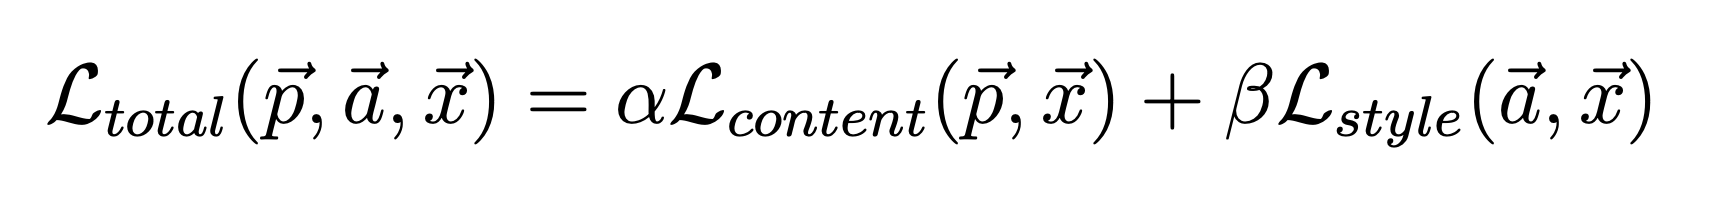
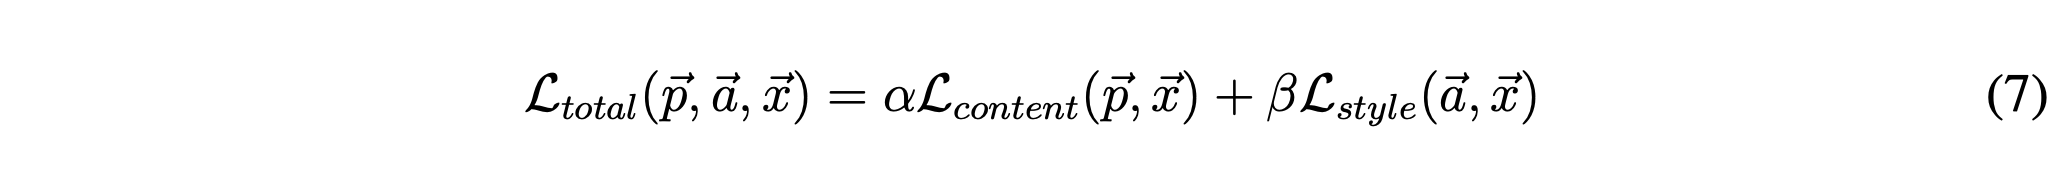
Finalise explanation for Style transfer post

Changed region(s): [[0.031, 0.3022, 1.0, 0.7143], [0.8668, 0.3022, 0.9597, 0.3846]]

diff --git a/_layouts/blog.html b/_layouts/blog.html
@@ -4,9 +4,6 @@ layout: default
 {%- assign _posts = site.posts | sort: 'date' | reverse -%}
 {%- include header.html scrolly_nav=_posts -%}
 <!-- Main -->
-<head>
-	<link rel="shortcut icon" type="image/x-icon" href="assets/favicon/favicon.ico">
-</head>>
 <div id="main">
 	{%- if page.content != "" -%}
 		{%- include section.html title=page.title photo=page.cover-photo photo-alt=page.cover-photo-alt auto-header=page.auto-header content=page.content -%}

diff --git a/_layouts/home.html b/_layouts/home.html
@@ -4,9 +4,6 @@ layout: default
 {%- assign _sections = site.sections | sort: 'order' -%}
 {%- include header.html scrolly_nav=_sections -%}
 <!-- Main -->
-<head>
-	<link rel="shortcut icon" type="image/x-icon" href="assets/favicon/favicon.ico">
-</head>>
 <div id="main">
 	{%- if page.content != "" -%}
 		{%- include section.html title=page.title photo=page.cover-photo photo-alt=page.cover-photo-alt auto-header=page.auto-header content=page.content -%}

diff --git a/_layouts/page.html b/_layouts/page.html
@@ -2,9 +2,6 @@
 layout: default
 ---
 {%- include header.html -%}
-<head>
-	<link rel="shortcut icon" type="image/x-icon" href="assets/favicon/favicon.ico">
-</head>>
 <!-- Main -->
 <div id="main">
 	<!-- Page -->

diff --git a/_layouts/post.html b/_layouts/post.html
@@ -2,9 +2,6 @@
 layout: default
 ---
 {%- include header.html -%}
-<head>
-	<link rel="shortcut icon" type="image/x-icon" href="assets/favicon/favicon.ico">
-</head>>
 <!-- Main -->
 <div id="main">
 	<!-- Post -->

diff --git a/_posts/2020-08-11-on-style-transfer.md b/_posts/2020-08-11-on-style-transfer.md
@@ -96,9 +96,8 @@ What is now left is understanding $$\mathcal{L}_{content}$$ and $$\mathcal{L}_{s
 ### $\mathcal{L}_{content}$
 Here is where everything gets a bit complicated but at the same time, you get to piece everything together nicely. 
 
-$\mathcal{L}_{content}$ is
-described as the squared-error loss between two feature representations: one concerned with the random photograph $\overrightarrow{p}$ and the generated image $\overrightarrow{x}$ 
-which is originally a white noise image. 
+$\mathcal{L}_{content}$ is described as the squared-error loss between two feature representations: one concerned with the random photograph 
+$\overrightarrow{p}$ and the generated image $\overrightarrow{x}$ which is originally a white noise image. 
 <span class="image center"><img src="{{ 'assets/images/2020-08-11-style-transfer-paper-06.png' | relative_url }}" alt="" /></span>
 $P^l$ and $F^l$ are the respective feature representations for the two images in layer $l$. The authors used the feature space provided by the 16 convolutional and 5 pooling layers of the 19 layer `VGG` Network. 
 Here, $F^l$ represents an activation function ($F$) at a given layer $l$ or, plainly, a bank of non-linear filters for that layer. The complexity of these filters increases 
@@ -112,11 +111,46 @@ on the white noise image to find another image that matches the feature response
 So, the approach is to gradually changes the initially random image $\overrightarrow{x}$ until it generates the same response in a certain layer of the CNN as the original image. 
 
 ### $\mathcal{L}_{style}$ 
-    
+The style loss function is described by the following equation:
+<span class="image center"><img src="{{ 'assets/images/2020-08-11-style-transfer-paper-08.png' | relative_url }}" alt="" /></span>    
+which is basically a sum of the weighted distances between feature correlations across the different filter (layer) responses for two images:
 
+* the original image $\overrightarrow{a}$, and;
+* a white noise image $\overrightarrow{x}$, used to generate a style representation of the original image. 
+  
+Let's break this down a bit more; what are these feature correlations? Practically they are a way to express a relationship between a feature map $F$ and 
+the filters ($i$ and $j$) of the different layers ($l$) applied on it. This is beautifully expressed as a matrix of all possible inner 
+products between the generated set of feature vectors, called a ["Gram matrix $G$"](https://www.youtube.com/watch?v=DEK-W5cxG-g), as per the below equation:
+<span class="image center"><img src="{{ 'assets/images/2020-08-11-style-transfer-paper-09.png' | relative_url }}" alt="" /></span>
 
-For image synthesis they found that replacing the max-pooling operation by average pooling improves the gradient flow and one obtains slightly
+One such matrix is generated for each of the two images (the original $\overrightarrow{a}$ and $\overrightarrow{x}$), namely $A_{ij}^l$ and $G_{ij}^l$, and a squared 
+distance is calculated between these two. The objective is to minimise the distance. So, practically, as with every ML problem, what we have is an optimisation problem and 
+a cost function! Minimising this distance can be achieved through the application of gradient descent using standard error back-propagation 
+to adjust the weight values of equation $5$.     
+
+### Putting it all together
+Finally, in order to generate the final image with the style transfer, we return to equation 7, which practically jointly 
+minimises the distance of a white noise image from the content representation of the photograph in one layer of the network 
+and the style representation of the painting in a number of layers of the CNN. The authors also note that:
+> For image synthesis they found that replacing the max-pooling operation by average pooling improves the gradient flow and one obtains slightly
 more appealing results.
+
+That's it! So, what's left now is getting our hands dirty!
+
+## Using `PyTorch` for Style transfer
+If you following this [link](https://pytorch.org/tutorials/advanced/neural_style_tutorial.html?highlight=style%20transfer) to the official 
+`PyTorch` website you will find a very well written tutorial on how to apply style transfer with `PyTorch`. I will tryn to provide here
+my own take of it. 
+
+<pre class="brush: python">
+class StyleTransfer(object):
+
+    def apply(self):
+        self.x = None
+</pre>
+
+   
+
 
 
 
